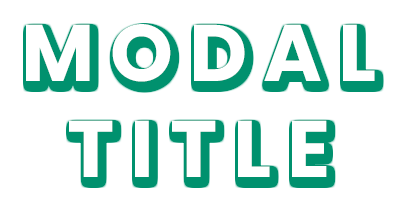
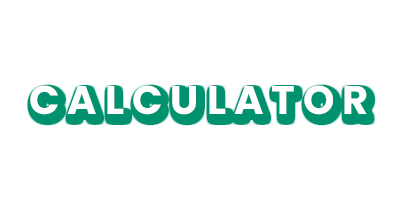
images updated

Changed region(s): [[0.06, 0.09, 0.96, 0.96]]

diff --git a/index.html b/index.html
@@ -76,7 +76,7 @@
                     <div class="wrapper">
                         <img src="/assets/card-2.jpg" class="cover-image" />
                     </div>
-                    <img src="/assets/modal-title-1.png" class="title" />
+                    <img src="/assets/modal-title-2.png" class="title" />
                     <img src="/assets/card-character-1.png" class="character" />
                 </div>
             </a>
@@ -85,7 +85,7 @@
                     <div class="wrapper">
                         <img src="/assets/card-3.jpg" class="cover-image" />
                     </div>
-                    <img src="/assets/modal-title-1.png" class="title" />
+                    <img src="/assets/modal-title-3.png" class="title" />
                     <img src="/assets/card-character-1.png" class="character" />
                 </div>
             </a>
@@ -213,7 +213,7 @@
                   <div class="current">
                     <div class="temp">28<span>°c</span></div>
                     <div class="wether">Clear sky</div>
-                    <div class="hi-low">16°c / 31°c</div>
+                    <div class="hi-low">29°c / 31°c</div>
                   </div>
                 </main>
               </div>
